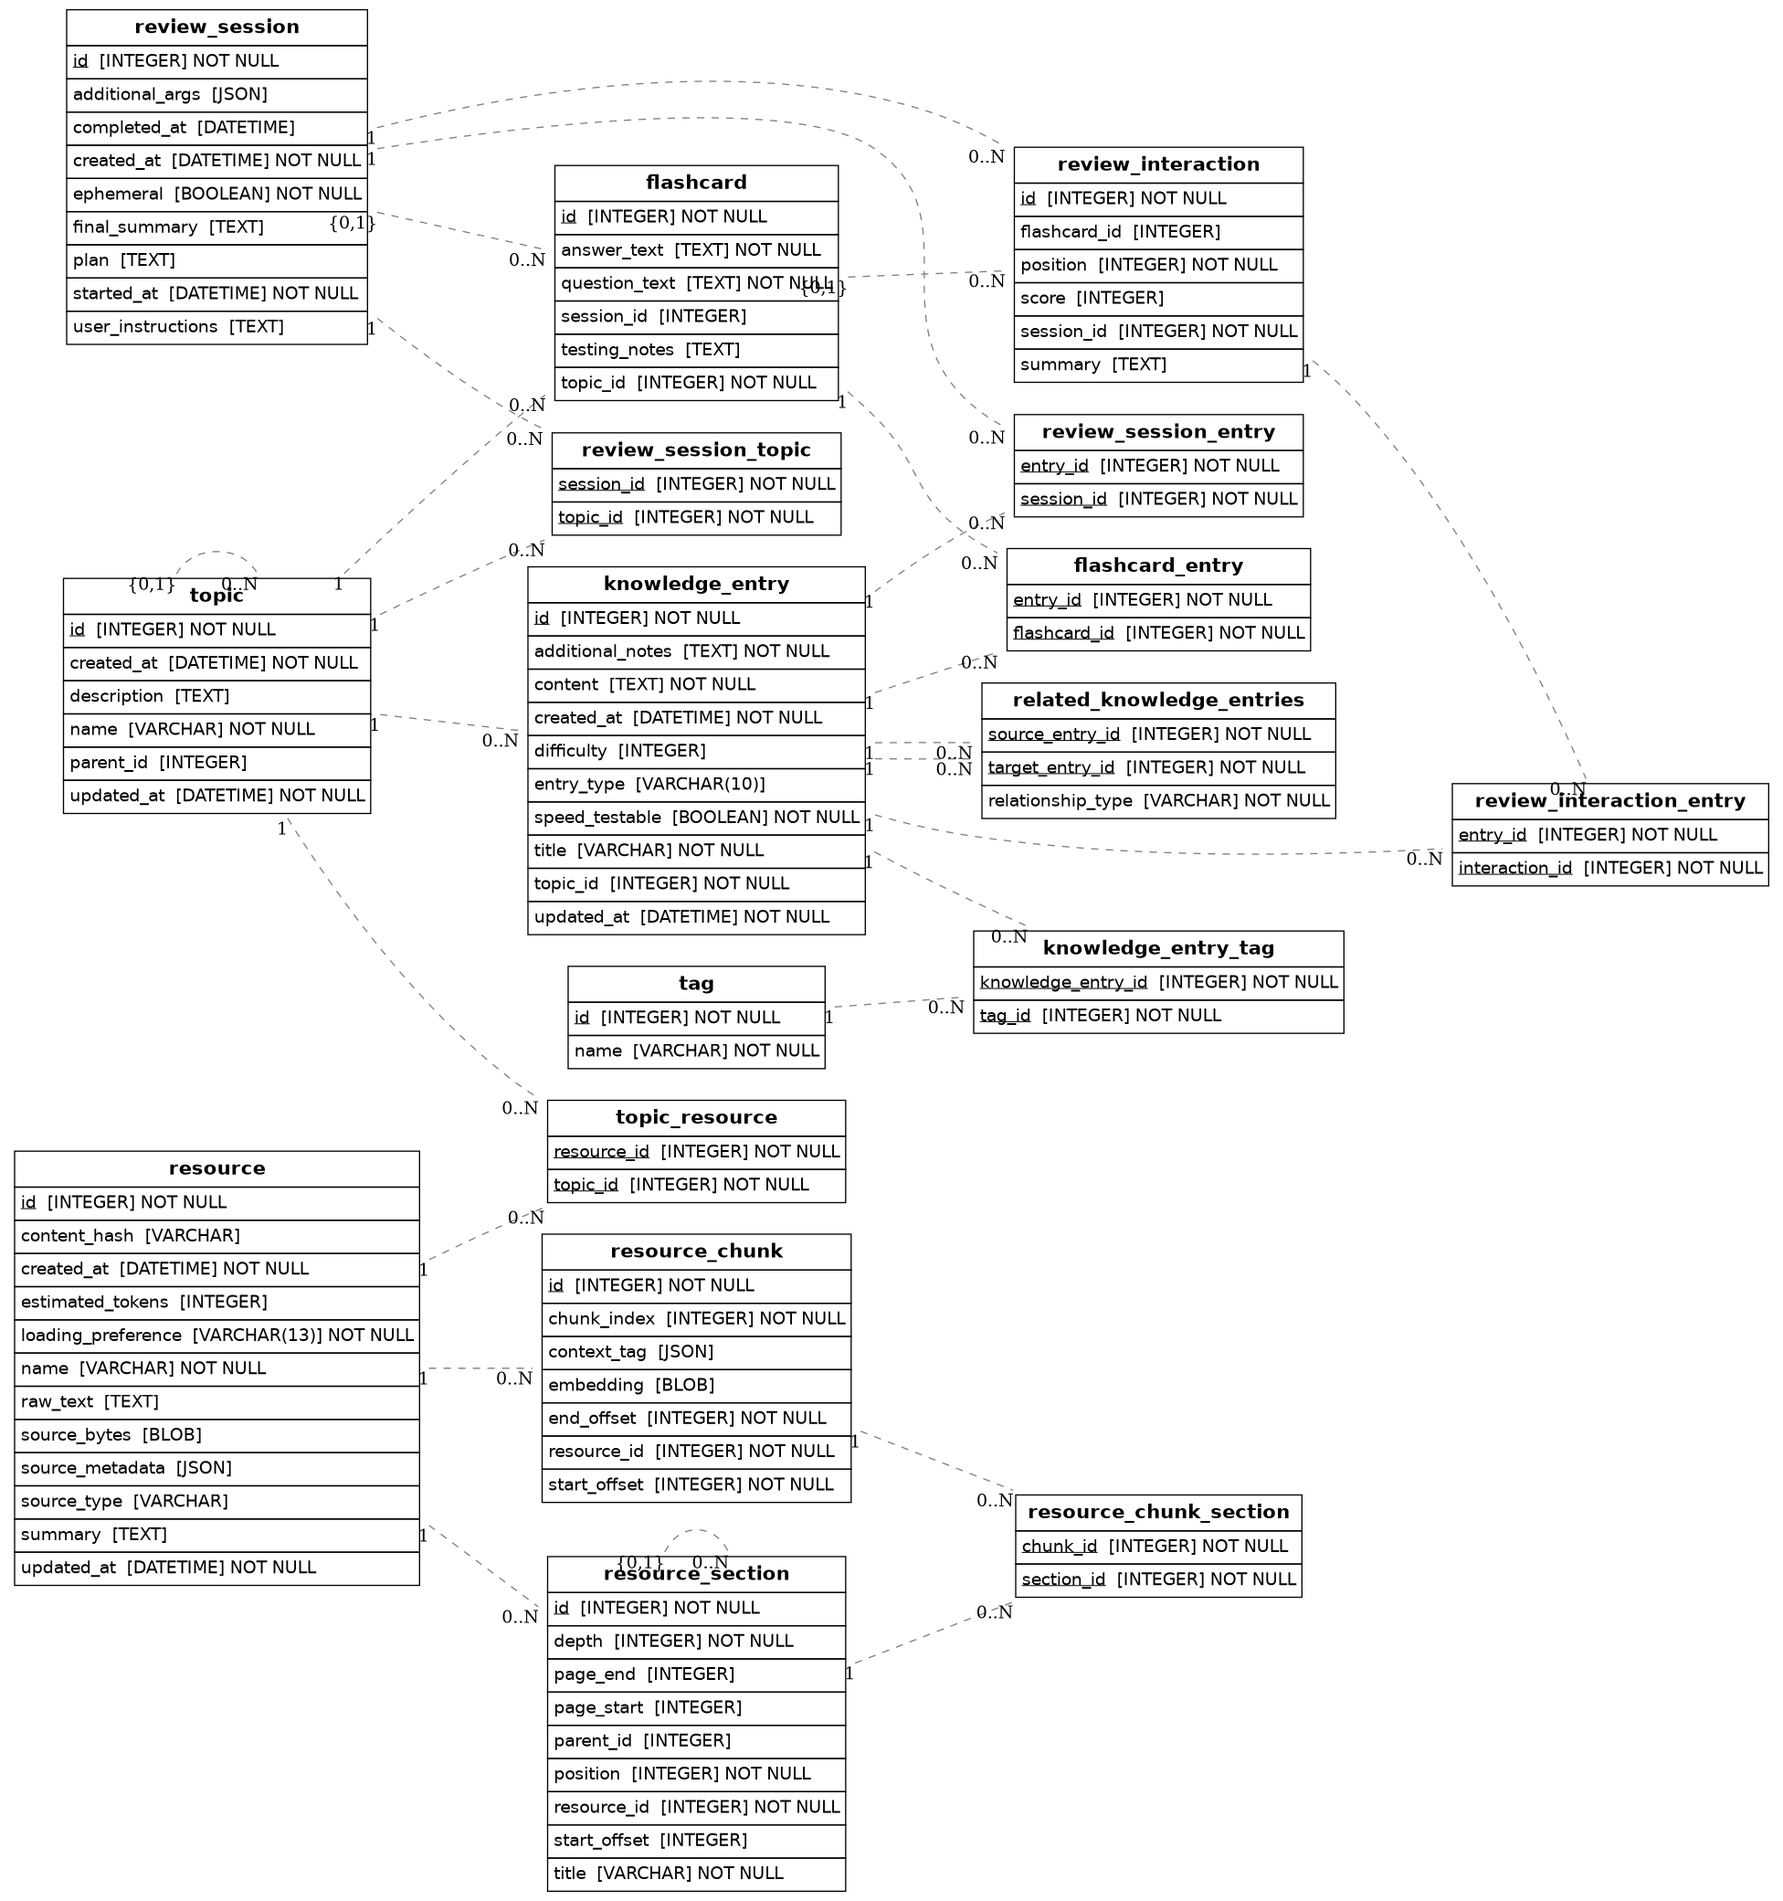
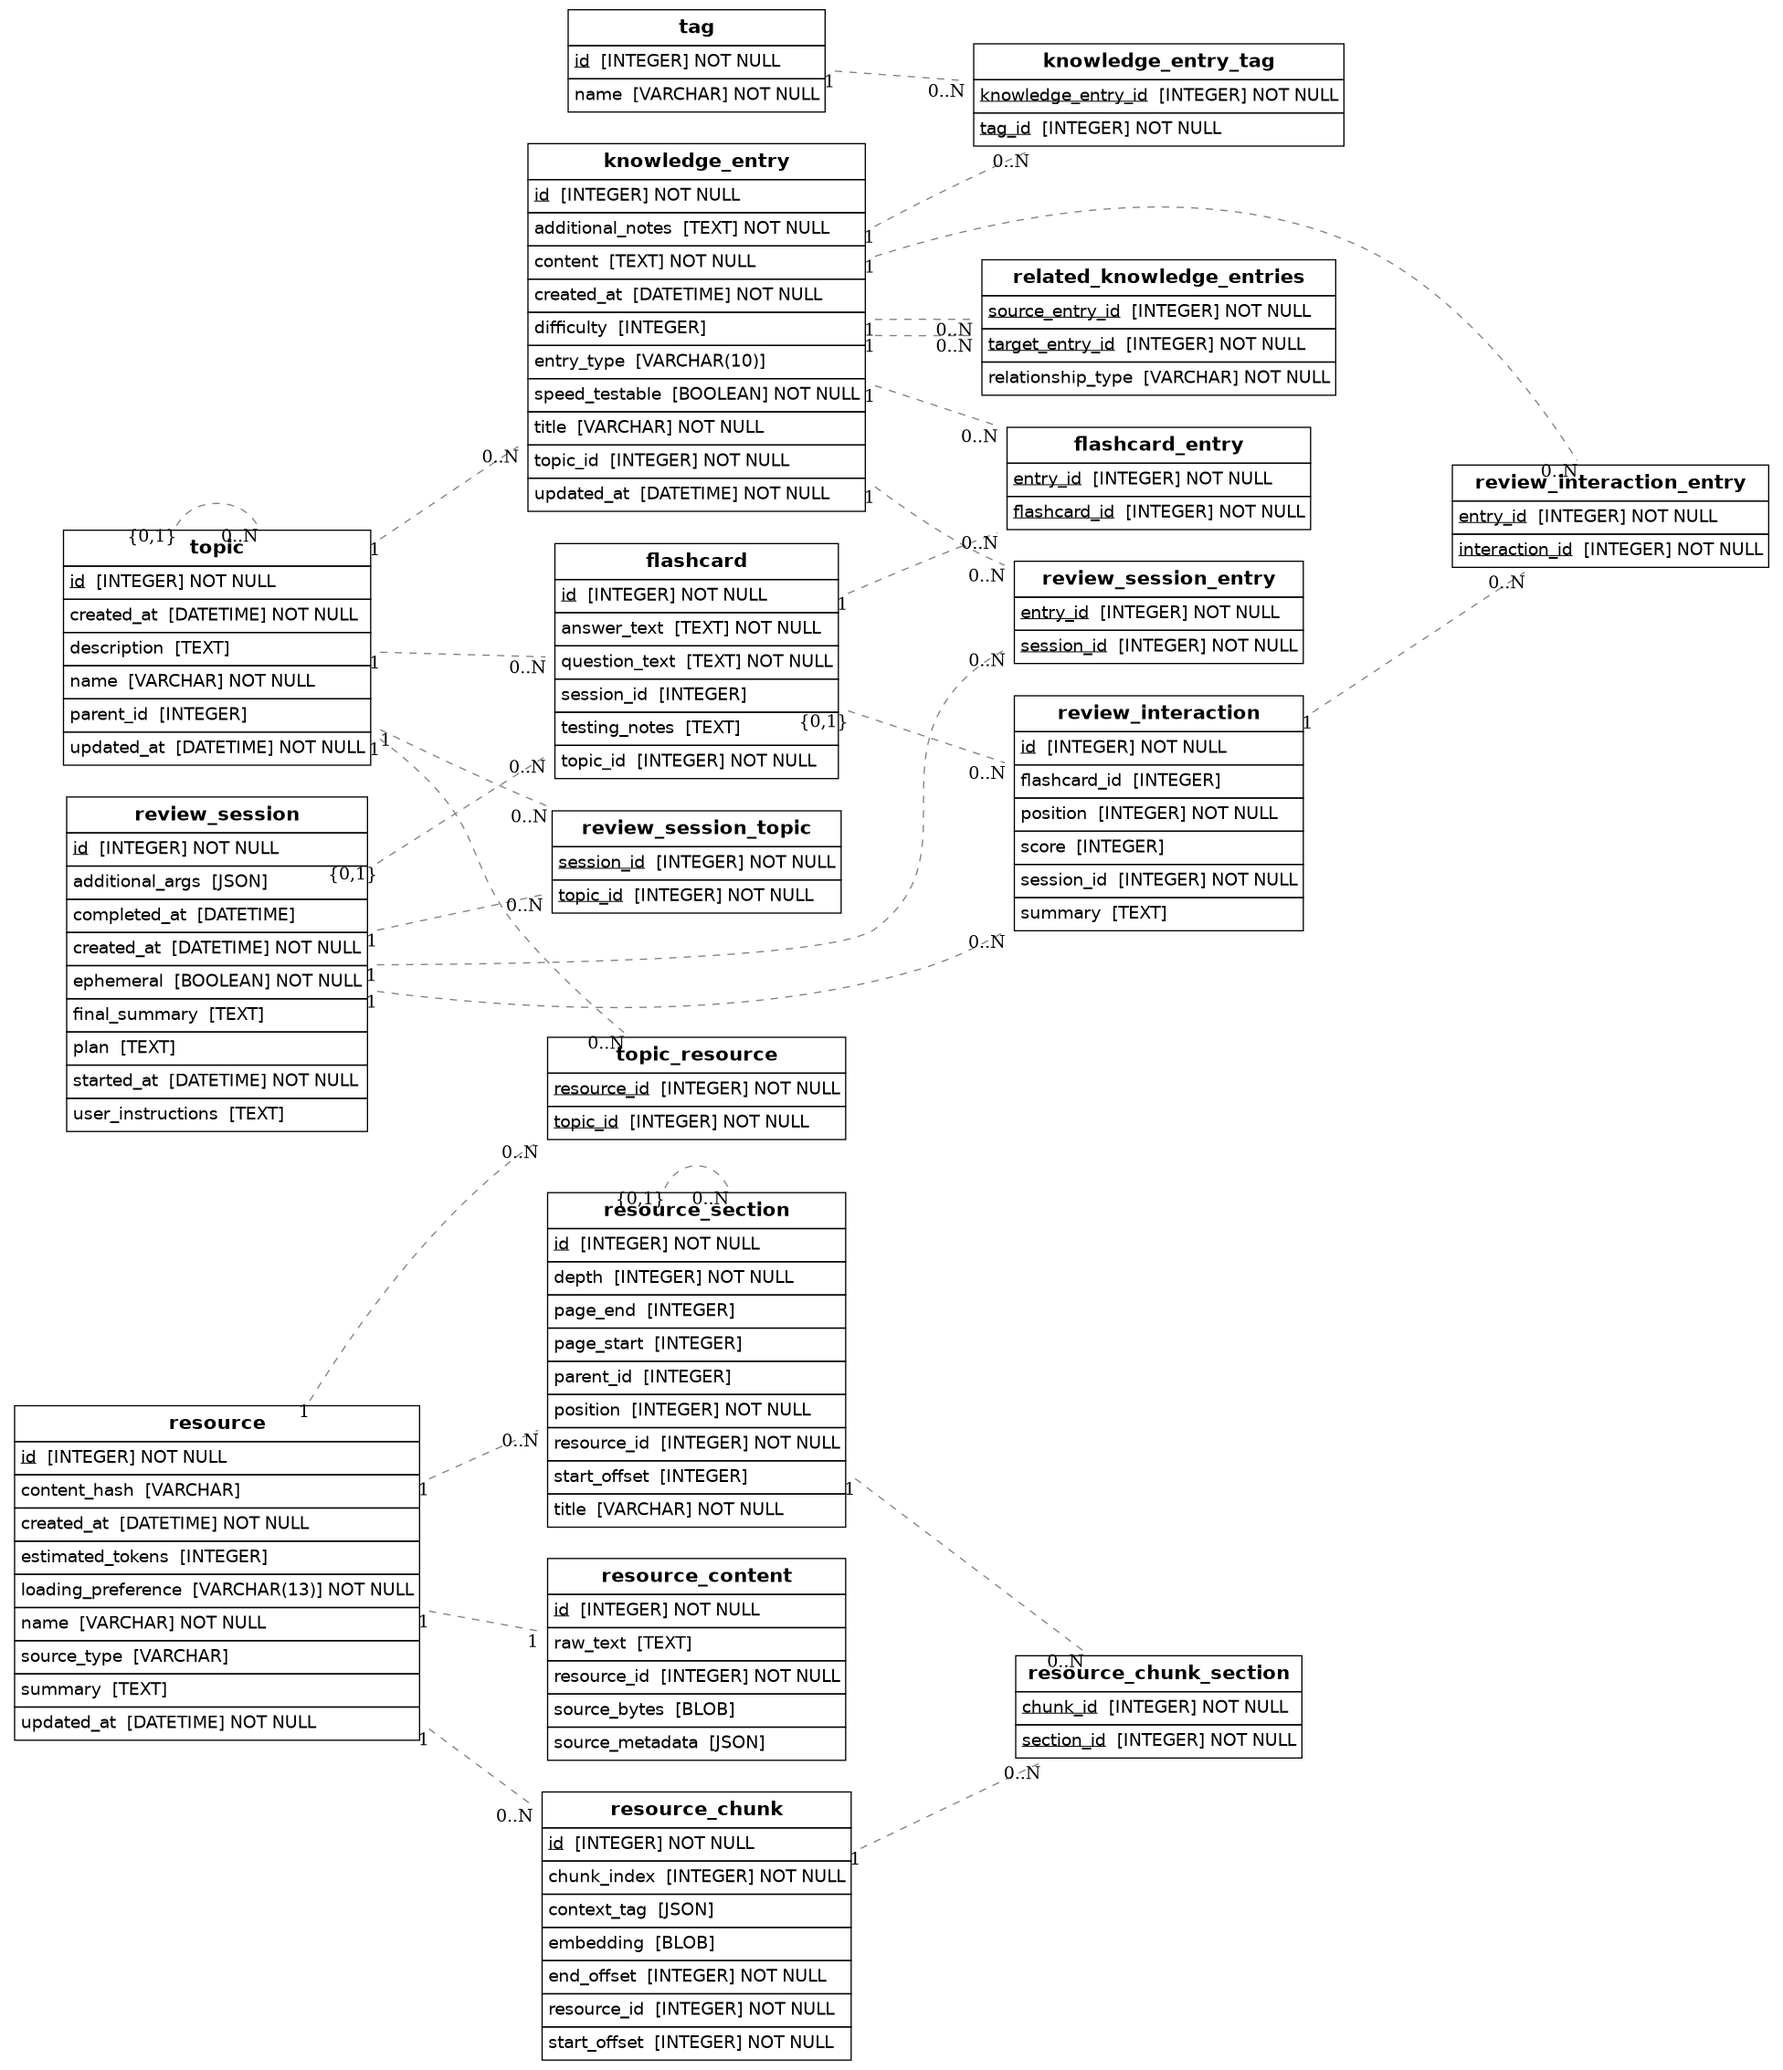
Extract ResourceContent table from Resource for lazy content loading
Resource queries were loading raw_text and source_bytes on every list/browse,
causing visible UI lag. Moves heavy content columns into a separate
ResourceContent table with a one-to-one relationship, so list queries
physically cannot load the heavy data without an explicit selectinload.

diff --git a/rhizome/db/alembic/versions/9a530f261b65_extract_resourcecontent_table_from_.py b/rhizome/db/alembic/versions/9a530f261b65_extract_resourcecontent_table_from_.py
@@ -1,0 +1,65 @@
+"""Extract ResourceContent table from Resource
+
+Revision ID: 9a530f261b65
+Revises: 419ed0ac8ad2
+Create Date: 2026-04-12 21:47:34.926751
+
+"""
+from typing import Sequence, Union
+
+from alembic import op
+import sqlalchemy as sa
+from sqlalchemy.dialects import sqlite
+
+# revision identifiers, used by Alembic.
+revision: str = '9a530f261b65'
+down_revision: Union[str, Sequence[str], None] = '419ed0ac8ad2'
+branch_labels: Union[str, Sequence[str], None] = None
+depends_on: Union[str, Sequence[str], None] = None
+
+
+def upgrade() -> None:
+    """Upgrade schema."""
+    # 1. Create the new table.
+    op.create_table('resource_content',
+    sa.Column('id', sa.Integer(), autoincrement=True, nullable=False),
+    sa.Column('resource_id', sa.Integer(), nullable=False),
+    sa.Column('raw_text', sa.Text(), nullable=True),
+    sa.Column('source_bytes', sa.LargeBinary(), nullable=True),
+    sa.Column('source_metadata', sa.JSON(), nullable=True),
+    sa.ForeignKeyConstraint(['resource_id'], ['resource.id'], ondelete='CASCADE'),
+    sa.PrimaryKeyConstraint('id'),
+    sa.UniqueConstraint('resource_id')
+    )
+
+    # 2. Copy existing data from resource into resource_content.
+    op.execute(
+        "INSERT INTO resource_content (resource_id, raw_text, source_bytes, source_metadata) "
+        "SELECT id, raw_text, source_bytes, source_metadata FROM resource"
+    )
+
+    # 3. Drop the old columns from resource.
+    with op.batch_alter_table('resource', schema=None) as batch_op:
+        batch_op.drop_column('source_bytes')
+        batch_op.drop_column('source_metadata')
+        batch_op.drop_column('raw_text')
+
+
+def downgrade() -> None:
+    """Downgrade schema."""
+    # 1. Re-add columns to resource.
+    with op.batch_alter_table('resource', schema=None) as batch_op:
+        batch_op.add_column(sa.Column('raw_text', sa.TEXT(), nullable=True))
+        batch_op.add_column(sa.Column('source_metadata', sqlite.JSON(), nullable=True))
+        batch_op.add_column(sa.Column('source_bytes', sa.BLOB(), nullable=True))
+
+    # 2. Copy data back from resource_content.
+    op.execute(
+        "UPDATE resource SET "
+        "raw_text = (SELECT rc.raw_text FROM resource_content rc WHERE rc.resource_id = resource.id), "
+        "source_bytes = (SELECT rc.source_bytes FROM resource_content rc WHERE rc.resource_id = resource.id), "
+        "source_metadata = (SELECT rc.source_metadata FROM resource_content rc WHERE rc.resource_id = resource.id)"
+    )
+
+    # 3. Drop the resource_content table.
+    op.drop_table('resource_content')

diff --git a/rhizome/db/models.py b/rhizome/db/models.py
@@ -307,10 +307,7 @@ class Resource(Base):
     content_hash: Mapped[str | None] = mapped_column(String, nullable=True)
     summary: Mapped[str | None] = mapped_column(Text, nullable=True)
     estimated_tokens: Mapped[int | None] = mapped_column(Integer, nullable=True)
-    raw_text: Mapped[str | None] = mapped_column(Text, nullable=True)
     source_type: Mapped[str | None] = mapped_column(String, nullable=True)
-    source_bytes: Mapped[bytes | None] = mapped_column(LargeBinary, nullable=True)
-    source_metadata: Mapped[dict | None] = mapped_column(JSON, nullable=True)
     loading_preference: Mapped[LoadingPreference] = mapped_column(
         Enum(LoadingPreference), nullable=False, server_default="auto"
     )
@@ -319,6 +316,9 @@ class Resource(Base):
         nullable=False, server_default=func.now(), onupdate=func.now()
     )
 
+    content: Mapped["ResourceContent | None"] = relationship(
+        back_populates="resource", cascade="all, delete-orphan", uselist=False,
+    )
     chunks: Mapped[list["ResourceChunk"]] = relationship(
         back_populates="resource", cascade="all, delete-orphan"
     )
@@ -328,6 +328,23 @@ class Resource(Base):
 
     def __repr__(self) -> str:
         return f"<Resource id={self.id} name={self.name!r}>"
+
+
+class ResourceContent(Base):
+    __tablename__ = "resource_content"
+
+    id: Mapped[int] = mapped_column(primary_key=True, autoincrement=True)
+    resource_id: Mapped[int] = mapped_column(
+        ForeignKey("resource.id", ondelete="CASCADE"), nullable=False, unique=True,
+    )
+    raw_text: Mapped[str | None] = mapped_column(Text, nullable=True)
+    source_bytes: Mapped[bytes | None] = mapped_column(LargeBinary, nullable=True)
+    source_metadata: Mapped[dict | None] = mapped_column(JSON, nullable=True)
+
+    resource: Mapped["Resource"] = relationship(back_populates="content")
+
+    def __repr__(self) -> str:
+        return f"<ResourceContent resource={self.resource_id}>"
 
 
 class TopicResource(Base):

diff --git a/rhizome/db/operations/resources.py b/rhizome/db/operations/resources.py
@@ -13,6 +13,7 @@ from rhizome.db.models import (
     Resource,
     ResourceChunk,
     ResourceChunkSection,
+    ResourceContent,
     ResourceSection,
     TopicResource,
 )
@@ -30,19 +31,26 @@ async def create_resource(
     source_type: str | None = None,
     source_bytes: bytes | None = None,
 ) -> Resource:
-    """Create a new resource."""
+    """Create a new resource with its content stored separately."""
     resource = Resource(
         name=name,
-        raw_text=raw_text,
         content_hash=content_hash,
         summary=summary,
         estimated_tokens=estimated_tokens,
         loading_preference=loading_preference,
         source_type=source_type,
-        source_bytes=source_bytes,
     )
     session.add(resource)
     await session.flush()
+
+    content = ResourceContent(
+        resource_id=resource.id,
+        raw_text=raw_text,
+        source_bytes=source_bytes,
+    )
+    session.add(content)
+    await session.flush()
+    resource.content = content
     return resource
 
 
@@ -50,11 +58,14 @@ async def get_resource(
     session: AsyncSession,
     resource_id: int,
 ) -> Resource | None:
-    """Get a resource by ID, eagerly loading chunks."""
+    """Get a resource by ID, eagerly loading chunks and content."""
     result = await session.execute(
         select(Resource)
         .where(Resource.id == resource_id)
-        .options(selectinload(Resource.chunks))
+        .options(
+            selectinload(Resource.chunks),
+            selectinload(Resource.content),
+        )
     )
     return result.scalar_one_or_none()
 

diff --git a/rhizome/tui/widgets/chat_pane.py b/rhizome/tui/widgets/chat_pane.py
@@ -1413,7 +1413,7 @@ class ChatPane(Widget, DockContainerMixin):
         if resource is None:
             self.append_message(ChatMessageData(role=Role.SYSTEM, content=f"Resource {resource_id} not found."))
             return
-        if not resource.source_bytes or not resource.source_type:
+        if not resource.content or not resource.content.source_bytes or not resource.source_type:
             self.append_message(ChatMessageData(
                 role=Role.SYSTEM,
                 content=f"Resource [{resource_id}] has no source file stored. "
@@ -1460,7 +1460,7 @@ class ChatPane(Widget, DockContainerMixin):
         try:
             llm = init_chat_model("claude-sonnet-4-6", api_key=get_api_key(), temperature=0.0)
             sections, _extraction, stats = await extract_document_subsections(
-                resource.source_bytes,
+                resource.content.source_bytes,
                 resource.source_type,
                 llm,
             )

diff --git a/rhizome/resources/embeddings.py b/rhizome/resources/embeddings.py
@@ -134,10 +134,10 @@ async def compute_embeddings(session_factory, resource_id: int) -> None:
         resource = await get_resource(session, resource_id)
         if resource is None:
             raise ValueError(f"Resource {resource_id} not found.")
-        if not resource.raw_text:
+        if not resource.content or not resource.content.raw_text:
             raise ValueError(f"Resource {resource_id} has no raw_text to embed.")
 
-        raw_text = resource.raw_text
+        raw_text = resource.content.raw_text
         existing_chunks = resource.chunks
 
     if existing_chunks and all(c.embedding is None for c in existing_chunks):

diff --git a/rhizome/db/__init__.py b/rhizome/db/__init__.py
@@ -9,6 +9,7 @@ from .models import (
     RelatedKnowledgeEntries,
     Resource,
     ResourceChunk,
+    ResourceContent,
     ReviewInteraction,
     ReviewInteractionEntry,
     ReviewSession,
@@ -31,6 +32,7 @@ __all__ = [
     "RelatedKnowledgeEntries",
     "Resource",
     "ResourceChunk",
+    "ResourceContent",
     "ReviewInteraction",
     "ReviewInteractionEntry",
     "ReviewSession",
